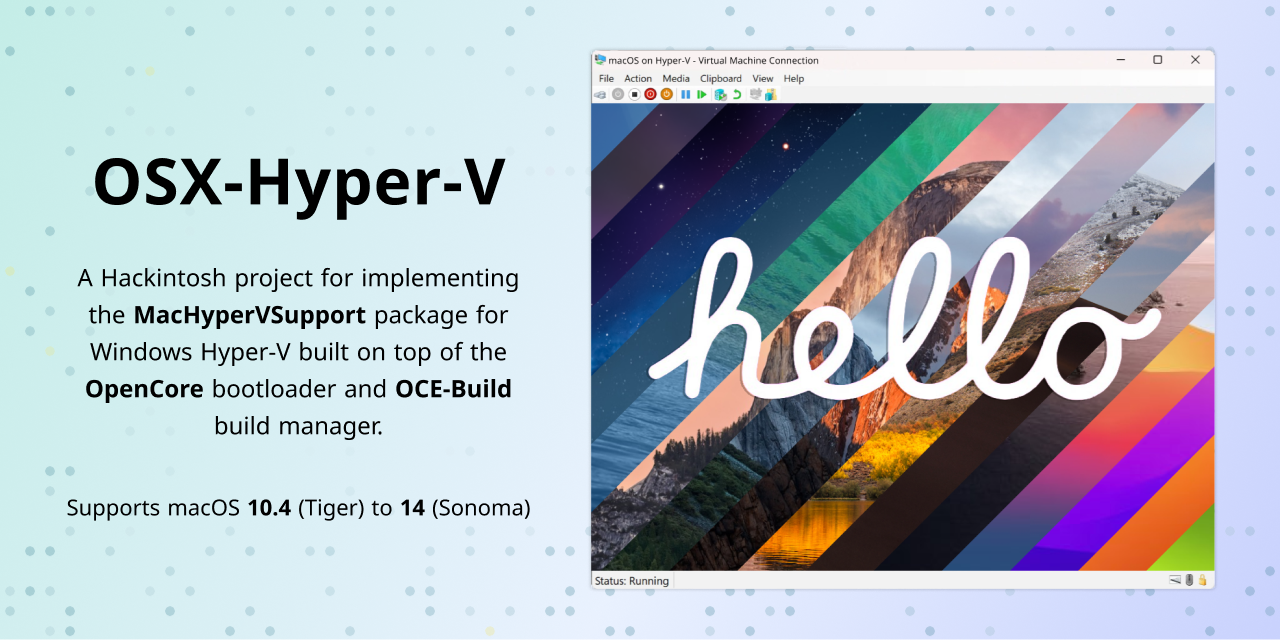
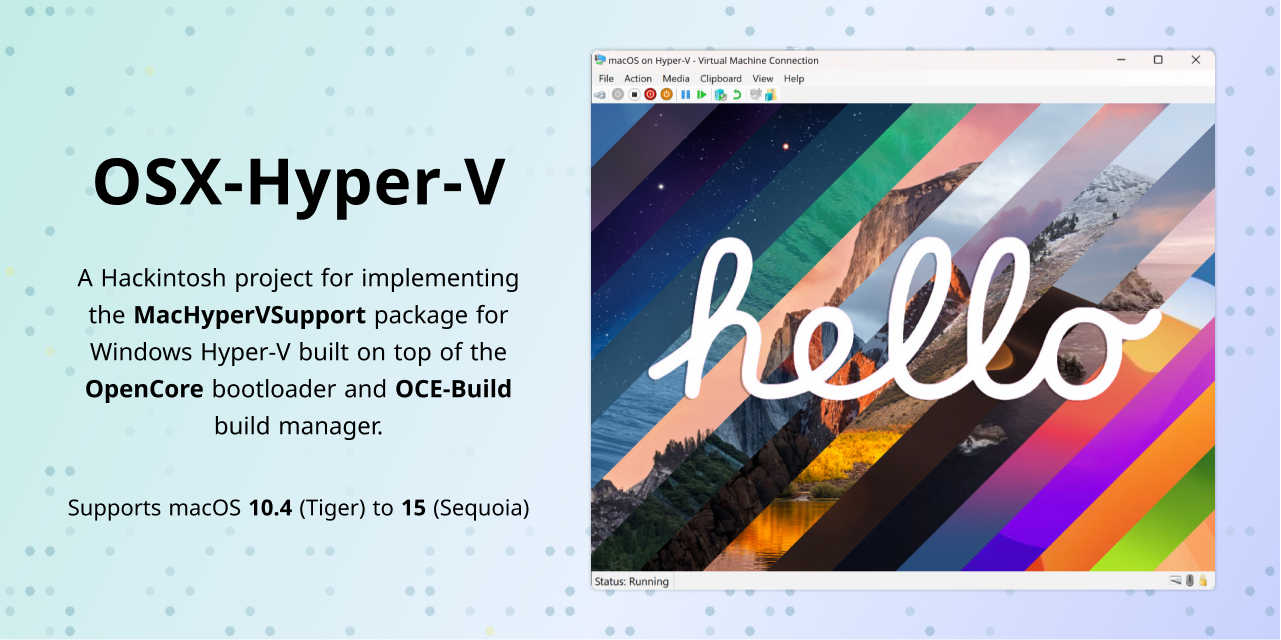
README: Update for macOS Soquoia
Add icon for Soquoia and note for beta OSes, fix notes and iconography for retail versions of OS X 10.4-10.6.

diff --git a/docs/README.md b/docs/README.md
@@ -38,12 +38,15 @@ Refer to the [CHANGELOG](/docs/CHANGELOG.md) or [SemVer board](#) for changes im
 
 ### macOS Version Support:
 
-Supported versions below include macOS versions **10.4** to **14.0**.
+> [!IMPORTANT]
+> Beta versions of macOS may require the boot arg `-lilubetaall` to be set in the `boot-args` section of your config.plist. This is needed to allow Lilu and all dependent plugins to load on macOS versions that are not yet officially supported.
 
 > [!NOTE]
-> Installations of OS X Tiger (10.4) to Lion (10.7) are not possible directly. It is recommended to first install a newer version of macOS and restore to the desired version using a [disk image provided by Acidanthera](https://dortania.github.io/OpenCore-Install-Guide/installer-guide/mac-install-dmg.html).
+> Installations of OS X Tiger (10.4) to Snow Leopard (10.6) are not possible directly. It is recommended to first install a newer version of macOS and restore to the desired version using a [disk image provided by Acidanthera](https://dortania.github.io/OpenCore-Install-Guide/installer-guide/mac-install-dmg.html).
 >
 > You can also find other past InstallAssistant.dmg archives on [Archive.org](https://archive.org/details/@khronokernel).
+
+Supported versions below include macOS versions **10.4** to **15.0**.
 
 <table>
   <thead>
@@ -55,6 +58,22 @@ Supported versions below include macOS versions **10.4** to **14.0**.
     </tr>
   </thead>
   <tbody>
+  <!-- macOS 15 -->
+    <tr>
+      <td>
+        <img
+          src="https://raw.githubusercontent.com/Qonfused/OSX-Hyper-V/main/docs/assets/macOS-roundrels/sequoia.png"
+          width=25
+          hspace=2
+          align="top"
+        />
+        Sequoia
+      </td>
+      <td style="text-align: center;">🚧</td>
+      <td>In Preview.</td>
+      <td><code>(None)</code></td>
+      <td><a href="https://www.apple.com/macos/macos-sequoia-preview/"><code>(Latest)</code></a></td>
+    </tr>
   <!-- macOS 14 -->
     <tr>
       <td>
@@ -69,7 +88,7 @@ Supported versions below include macOS versions **10.4** to **14.0**.
       <td style="text-align: center;">✅</td>
       <td>Supported.</td>
       <td><code>(None)</code></td>
-      <td><a href="https://www.apple.com/macos/sonoma-preview/"><code>(Latest)</code></a></td>
+      <td><a href="https://apps.apple.com/us/app/macos-sonoma/id6450717509"><code>(Latest)</code></a></td>
     </tr>
   <!-- macOS 13 -->
     <tr>
@@ -274,7 +293,7 @@ Supported versions below include macOS versions **10.4** to **14.0**.
         />
         Snow Leopard
       </td>
-      <td style="text-align: center;">✅</td>
+      <td style="text-align: center;">🚧</td>
       <td>Supported.</td>
       <td><code>(None)</code></td>
       <td><code>(Retail)</code></td>
@@ -290,7 +309,7 @@ Supported versions below include macOS versions **10.4** to **14.0**.
         />
         Leopard
       </td>
-      <td style="text-align: center;">✅</td>
+      <td style="text-align: center;">🚧</td>
       <td>Supported.</td>
       <td><code>(None)</code></td>
       <td><code>(Retail)</code></td>
@@ -306,7 +325,7 @@ Supported versions below include macOS versions **10.4** to **14.0**.
         />
         Tiger
       </td>
-      <td style="text-align: center;">✅</td>
+      <td style="text-align: center;">🚧</td>
       <td>Supported.</td>
       <td><code>(None)</code></td>
       <td><code>(Retail)</code></td>
